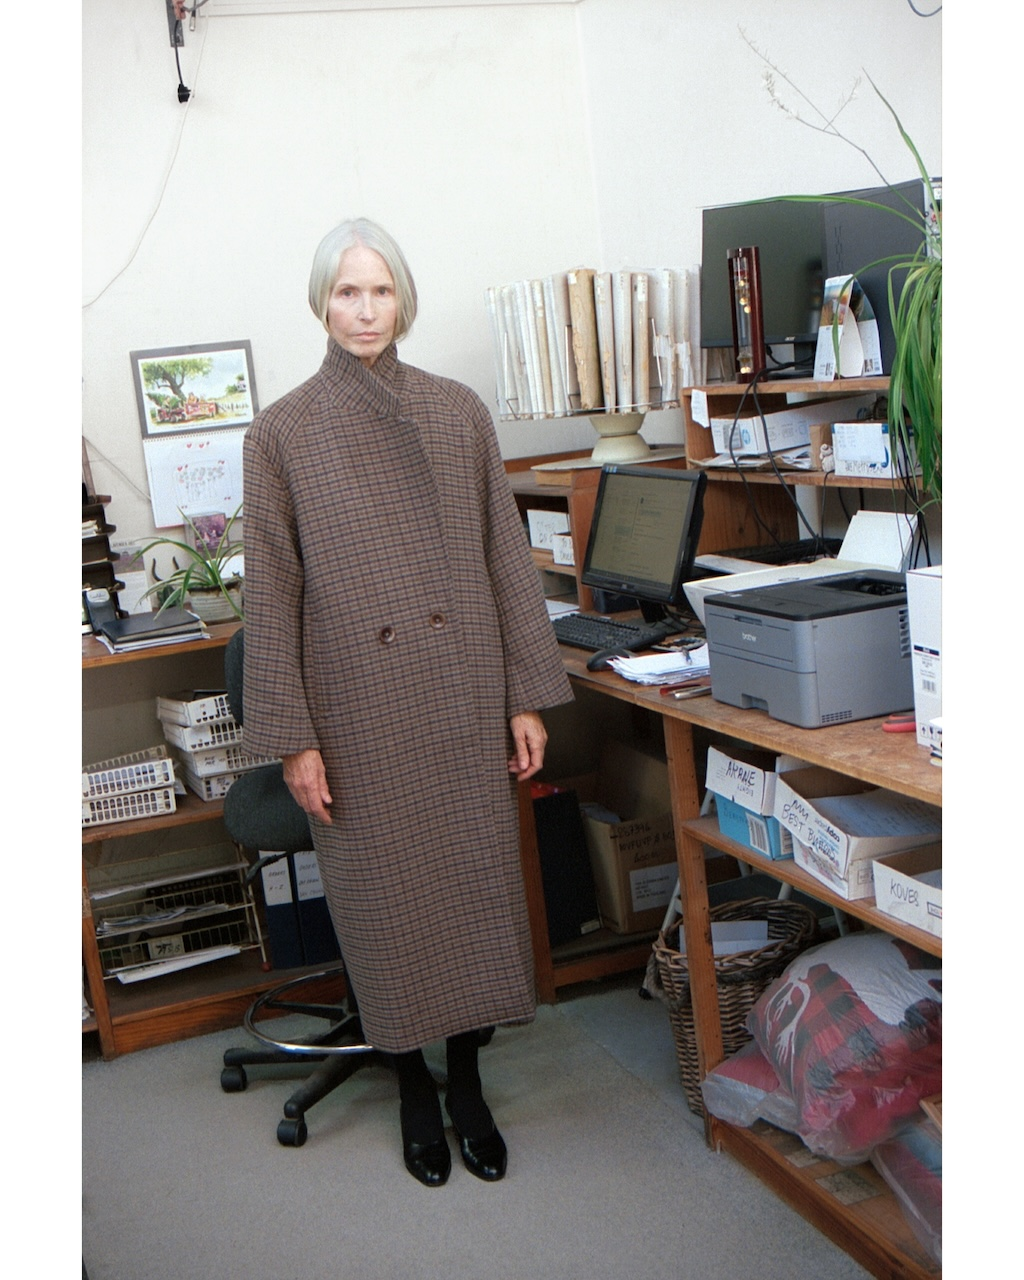
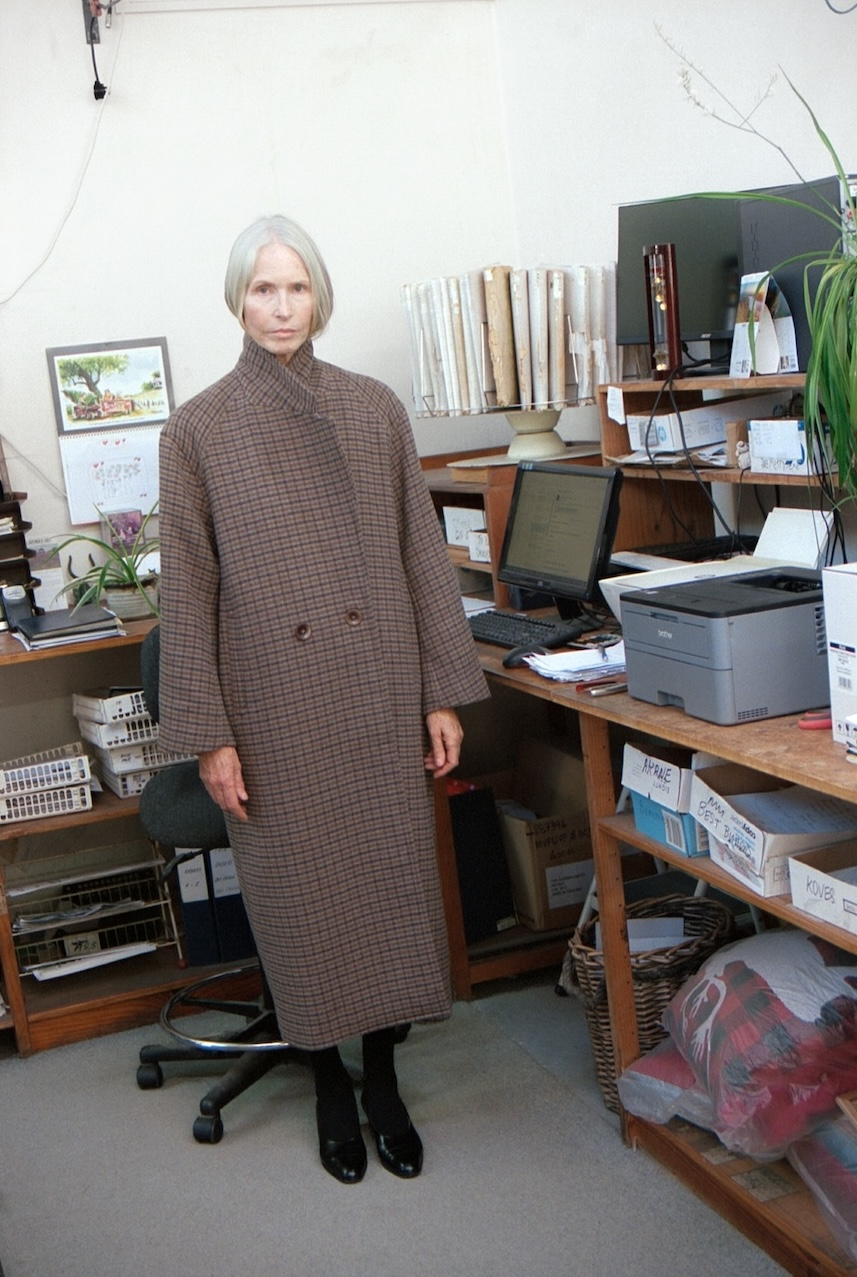
update photo selection

diff --git a/index.html b/index.html
@@ -1,12 +1,13 @@
 ---
 title: Aileen Chen
-samples:
+samples: 
   - Natasha-Film-AC-14-X
   - matan-2
   - HARPER-TEST-AC-10
-  - DEEDEECOMET-TEST-22JUL-AC-14-X
+  - 2412-4thSt1784-BlueNeutral
   - ELAENA-TEST-AC-19
   - MIA-COLLECTION-9-AC-08
+  - MIA-TEST-AC-09-X
   - PS-AW25-AC-29-X
   - STUDIO-SUTRAM-AC-43
 ---

diff --git a/_sass/_vars.scss b/_sass/_vars.scss
@@ -68,5 +68,5 @@
 // Sample images
 // -------------
 
-$number-of-imgs: 8;
+$number-of-imgs: 9;
 $seconds-per-img: 3.5s;
